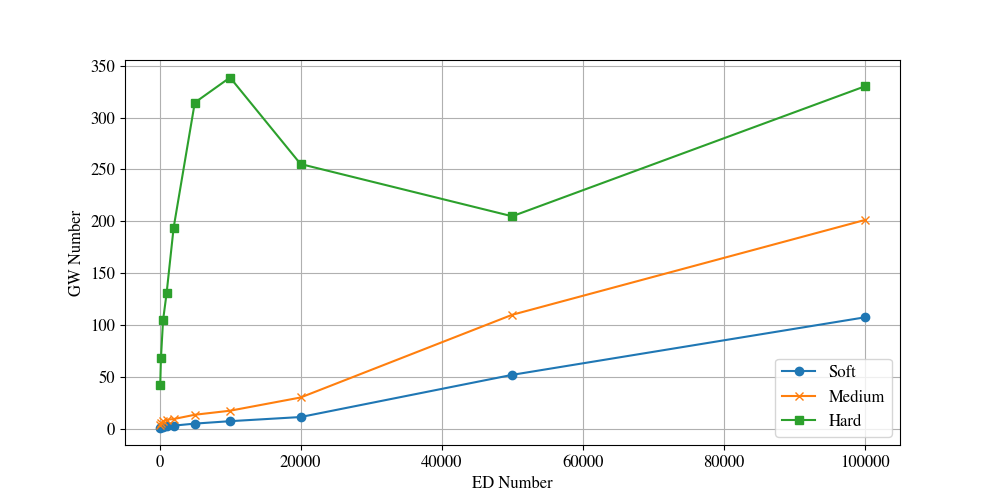
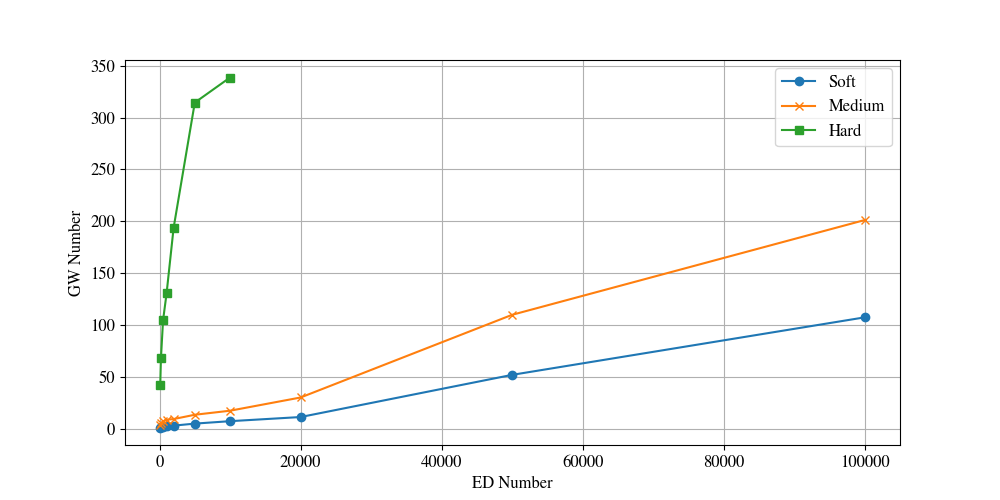
Update figures

diff --git a/data/results/plots_generator.py b/data/results/plots_generator.py
@@ -5,8 +5,11 @@ import numpy as np
 
 plt = mpl.pyplot
 
+#name = "Clouds"
+#data = pd.read_csv("summary_clouds.csv")
 
-data = pd.read_csv("summary_clouds.csv")
+name = "Uniform"
+data = pd.read_csv("summary_uniform.csv")
 
 # Column names
 ALGO = 'GW Pos. Heuristic'
@@ -44,7 +47,7 @@ plt.xlabel(ALGO)
 plt.ylabel(ELAPSED + ' [ms] (log scale)')
 plt.grid()
 if SAVEFIGS:
-    plt.savefig('Clouds_Springs_vs_Random.png')
+    plt.savefig(name+'_Springs_vs_Random.png')
 plt.show()
 
 
@@ -78,7 +81,7 @@ hspace=0.3
 wspace=0.2
 plt.subplots_adjust(top=top, bottom=bottom, left=left, right=right, hspace=hspace, wspace=wspace)
 if SAVEFIGS:
-    plt.savefig('Clouds Elapsed Time.png')
+    plt.savefig(name+' Elapsed Time.png')
 plt.show()
 
 
@@ -86,10 +89,24 @@ plt.show()
 
 
 def getEDvsGWAvg(alg, per, mapsize):
-    if alg == "Random" and per == "Hard" and mapsize == 1000: # Limitado para menos de 5.000 EDs
-        sample = data[(data[ALGO] == alg) & (data[PERIOD] == per) & (data[MAP] == mapsize) & (data[ED] <= 20000)]
-        return sample.groupby(ED).mean()[GW]
     sample = data[(data[ALGO] == alg) & (data[PERIOD] == per) & (data[MAP] == mapsize)]
+    if name == "Clouds":
+        if per == "Hard":
+            if alg == "Random":
+                if mapsize == 1000: 
+                    sample = data[(data[ALGO] == alg) & (data[PERIOD] == per) & (data[MAP] == mapsize) & (data[ED] <= 20000)]
+                if mapsize == 2000:
+                    sample = data[(data[ALGO] == alg) & (data[PERIOD] == per) & (data[MAP] == mapsize) & (data[ED] <= 10000)]
+            else:
+                if alg == "Springs":
+                    if mapsize == 1000: 
+                        sample = data[(data[ALGO] == alg) & (data[PERIOD] == per) & (data[MAP] == mapsize) & (data[ED] <= 50000)]
+    else:
+        if per == "Hard":
+            if alg == "Random":
+                if mapsize == 2000 or mapsize == 1000: 
+                    sample = data[(data[ALGO] == alg) & (data[PERIOD] == per) & (data[MAP] == mapsize) & (data[ED] <= 5000)]
+                    
     return sample.groupby(ED).mean()[GW]
 
 
@@ -108,7 +125,7 @@ for a, algo in enumerate(["Random", "Springs"]):
         plt.legend()
         plt.grid()
         if SAVEFIGS:
-            plt.savefig('Clouds ED vs GW '+algo + '_' + str(mapsize) + '.png')
+            plt.savefig(name+' ED vs GW '+algo + '_' + str(mapsize) + '.png')
         plt.show()
 
 # Para subplots en columna
@@ -122,6 +139,4 @@ for a, algo in enumerate(["Random", "Springs"]):
 #if SAVEFIGS:
 #    plt.savefig('ED vs GW.png')
 #plt.show()
-
-
 
